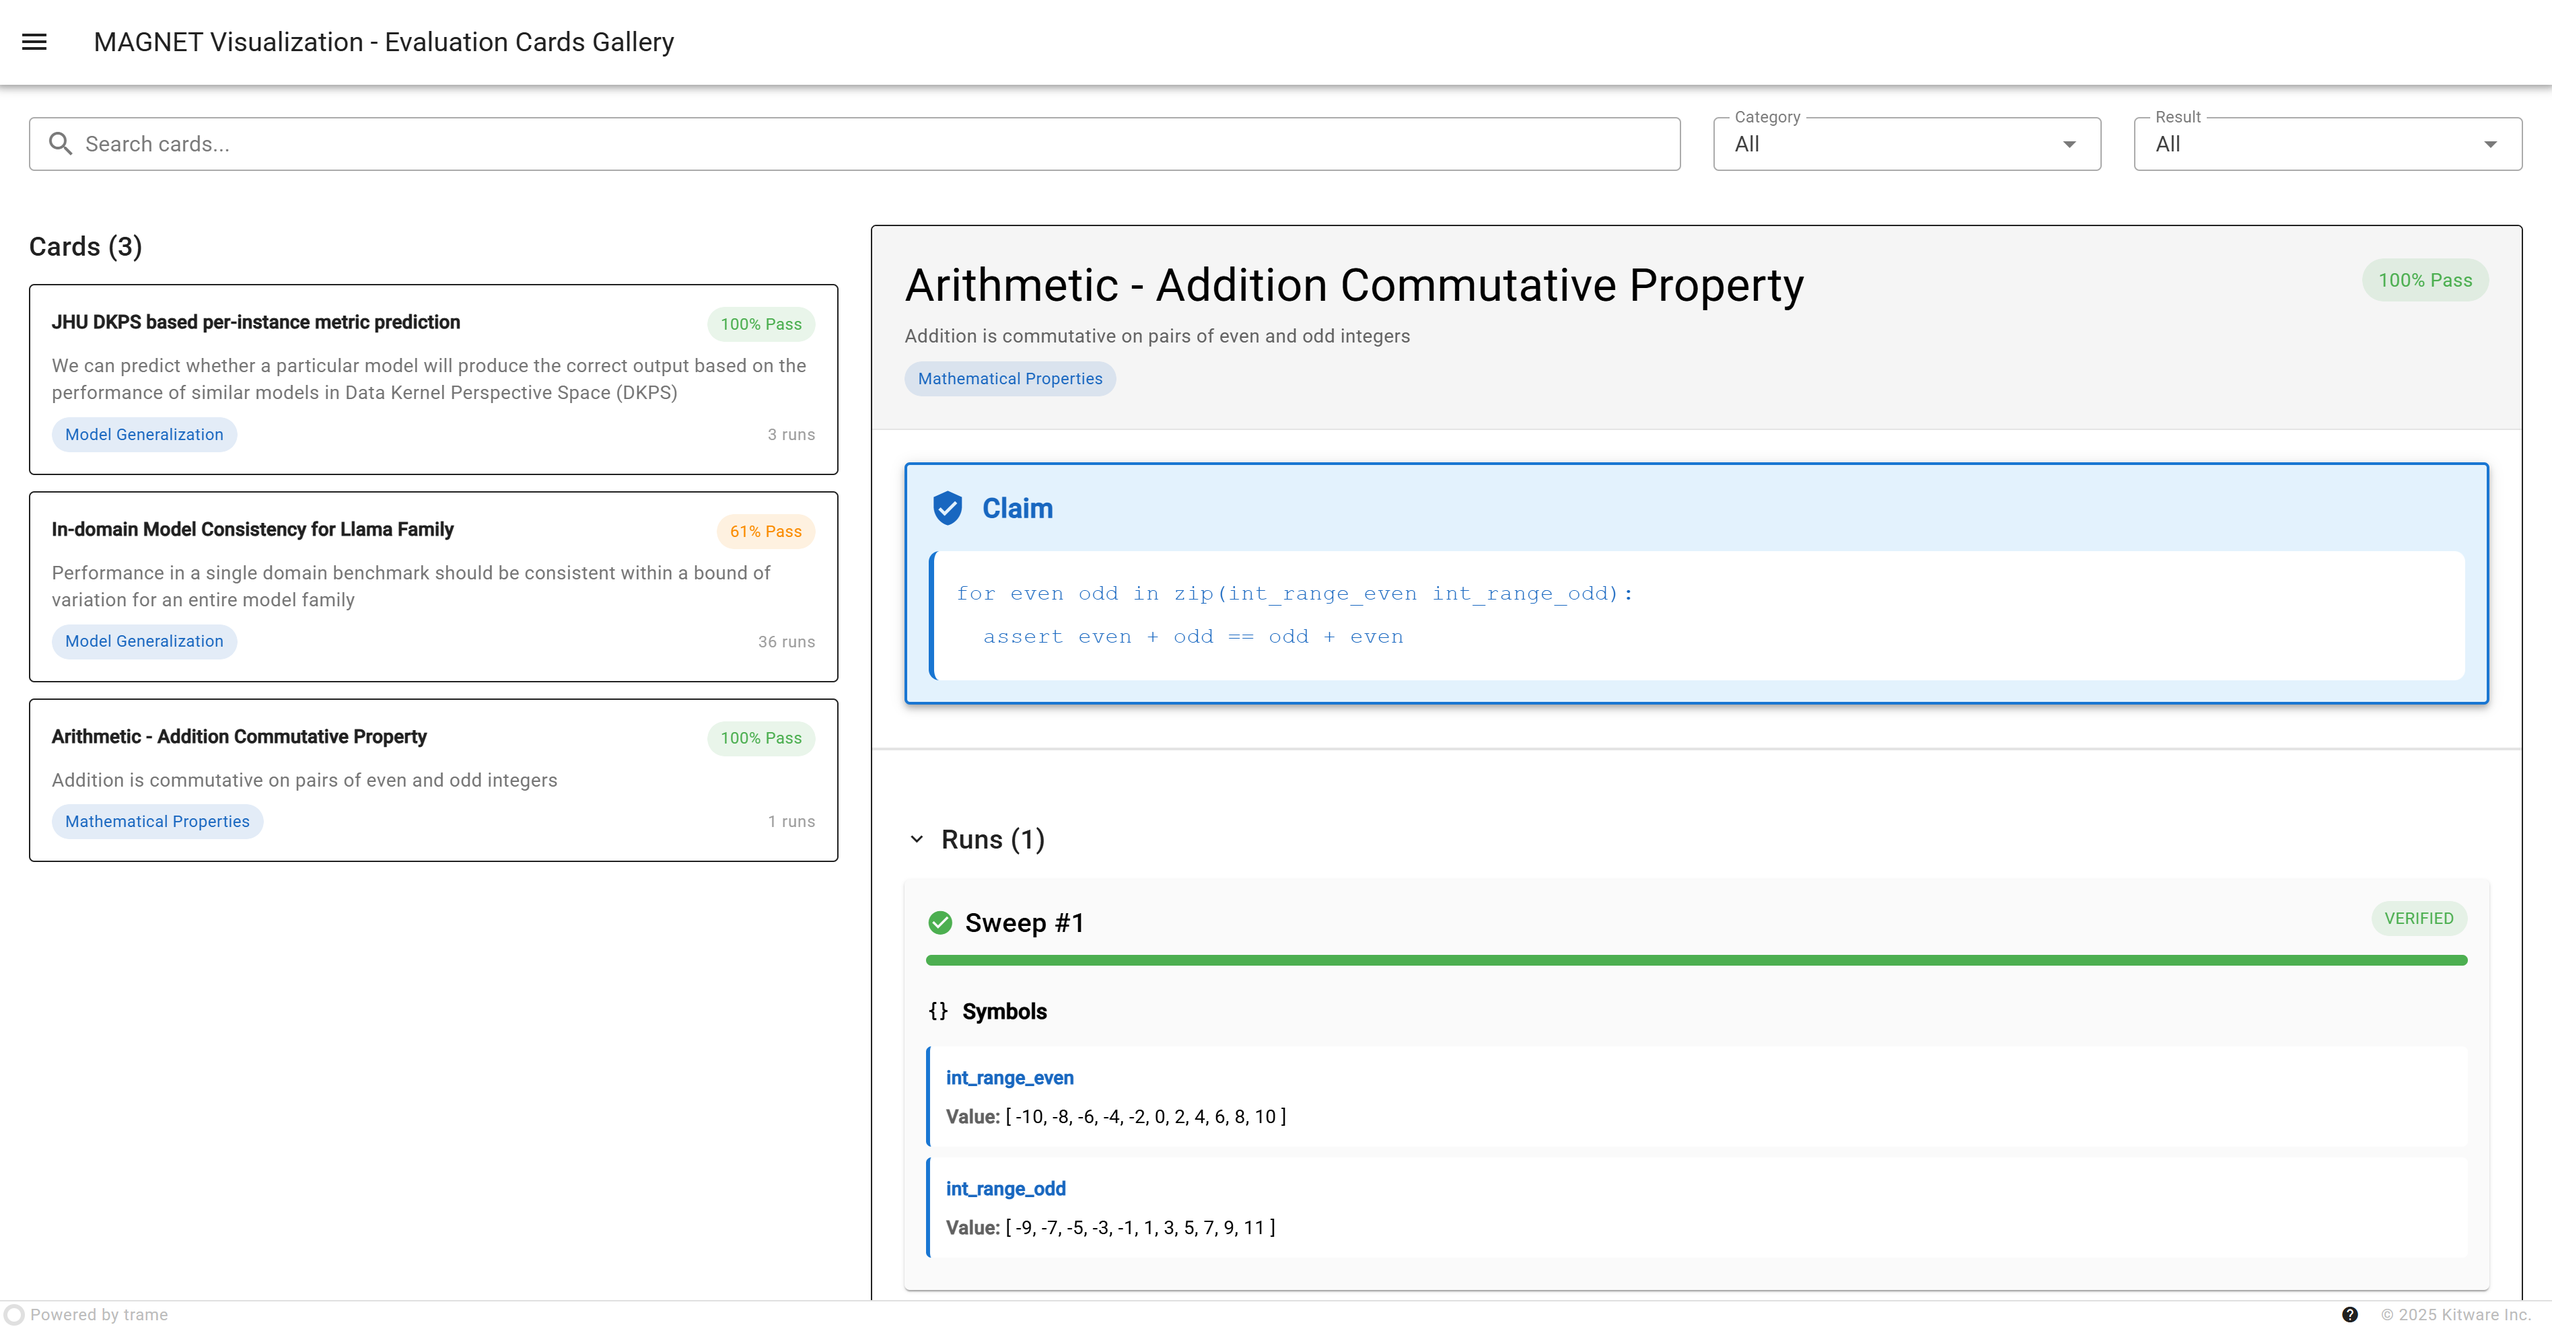
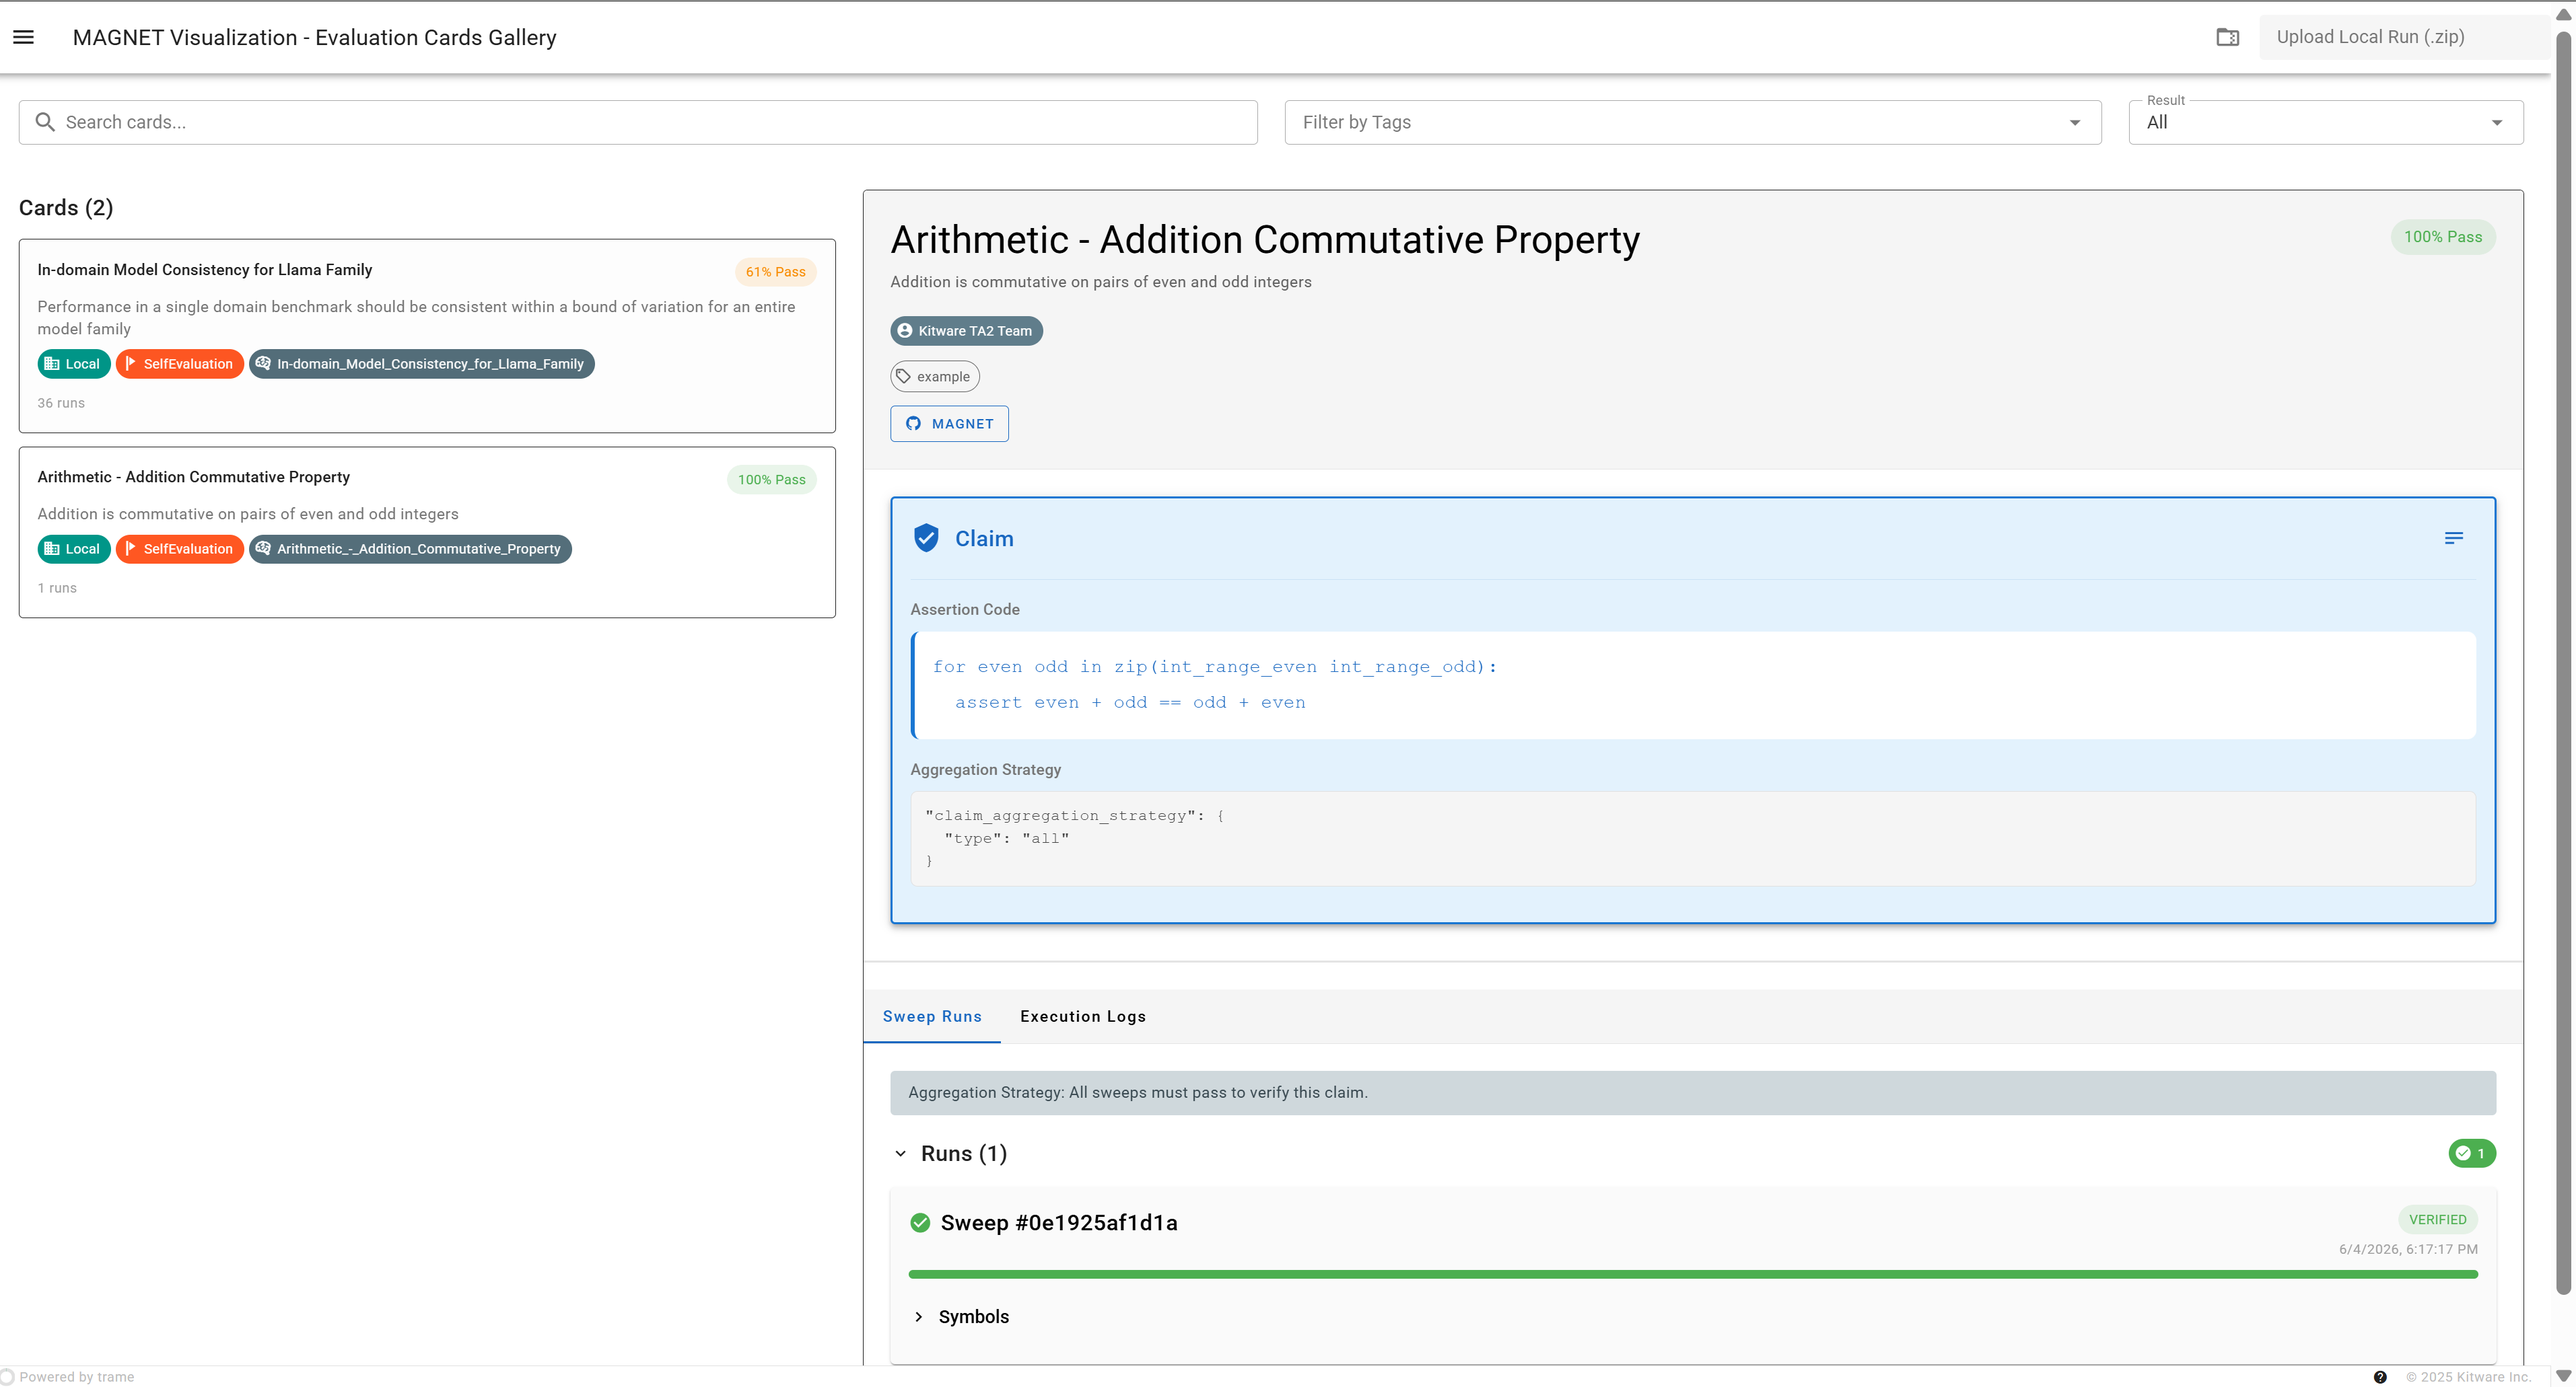
Update instructions

diff --git a/README.md b/README.md
@@ -40,32 +40,32 @@ uv venv --python 3.11 --seed .venv-311-evalcard-viz
 source .venv-311-evalcard-viz/bin/activate
 uv pip install .
 ```
-Alternatively, you can extend your existing MAGNET environment by installing `trame` and `trame-vuetify`.
-
 ### Running the App
 With results and environment ready, you can start the trame app and visualize your card runs.
 ```
 python visualization.py ../evaluations-example/
 ```
+### Adding data
+While running the app (initialized with data or not), you may upload your own compressed local results using the button in the top right corner of the dashboard. The only accepted format is a zip of the native `magnet` output (e.g. `./evaluation_runs` above) with all expected components (`card.yaml`, `verdict.json`, `/results`). 
 
 ## App Features
 
 ### Dashboard
-The visualization app intentionally populates a library of cards that can be selected to render on the right-side focused view.
+The visualization app populates a library of cards that can be selected to render on the right-side focused view.
 ![Dashboard View](assets/dashboard.png)
-A short catalog entry displays the title, description, category, number of sweeps/runs, and verfication rate. The focused view displays the raw python claim being resolved as well as all of the parameter sweep results.
+A short catalog entry displays the title, description, submitter organization, submission milestone, algorithm, number of sweeps/runs, and verification rate. The focused view displays a markdown description of the card that can be toggled to show the raw python claim and aggregation strateg as well as parameter sweep results and logs.
 
-<!-- Note: For this version, you may assume 100% Pass cards contain a VERIFIED claim, whereas others have been FALSIFIED. 
+<!-- Note: For this version, you may assume 100% Pass cards contain a VERIFIED claim, otherwise if the assertion banner rate is greater than the pass rate then the result is FALSIFIED. 
 -->
 
 ### Search for cards
-There are three fields available to search for particular cards: title, category, and result.
+There are three fields available to search for particular cards: title, tags, and result.
 
-As shown below, the Llama example card can be found by searching for its title in plain-text. However, the category and result fields could further narrow down particular evaluated claims. 
+As shown below, the Llama example card can be found by searching for its title in plain-text. However, the category and result fields could further narrow down particular cards. 
 ![Search](assets/search.png)
 
 ### Hide Details
-Runs and symbols are both collapsable headings. You may click directly on 'Runs (X)' to hide all sweeps. Similarly, you may select the brackets icon next to 'Symbols' to hide the symbol-value pairs for all sweeps.
+Runs and symbols are both collapsable headings. You may click directly on 'Runs (X)' to hide all sweeps. Conversely, you may select the icon next to 'Symbols' to expose the symbol-value pairs for that sweep.
 
 Using a falsified sweep for example,
 ![Llama Falsified Run](assets/falsified_sweep.png)
